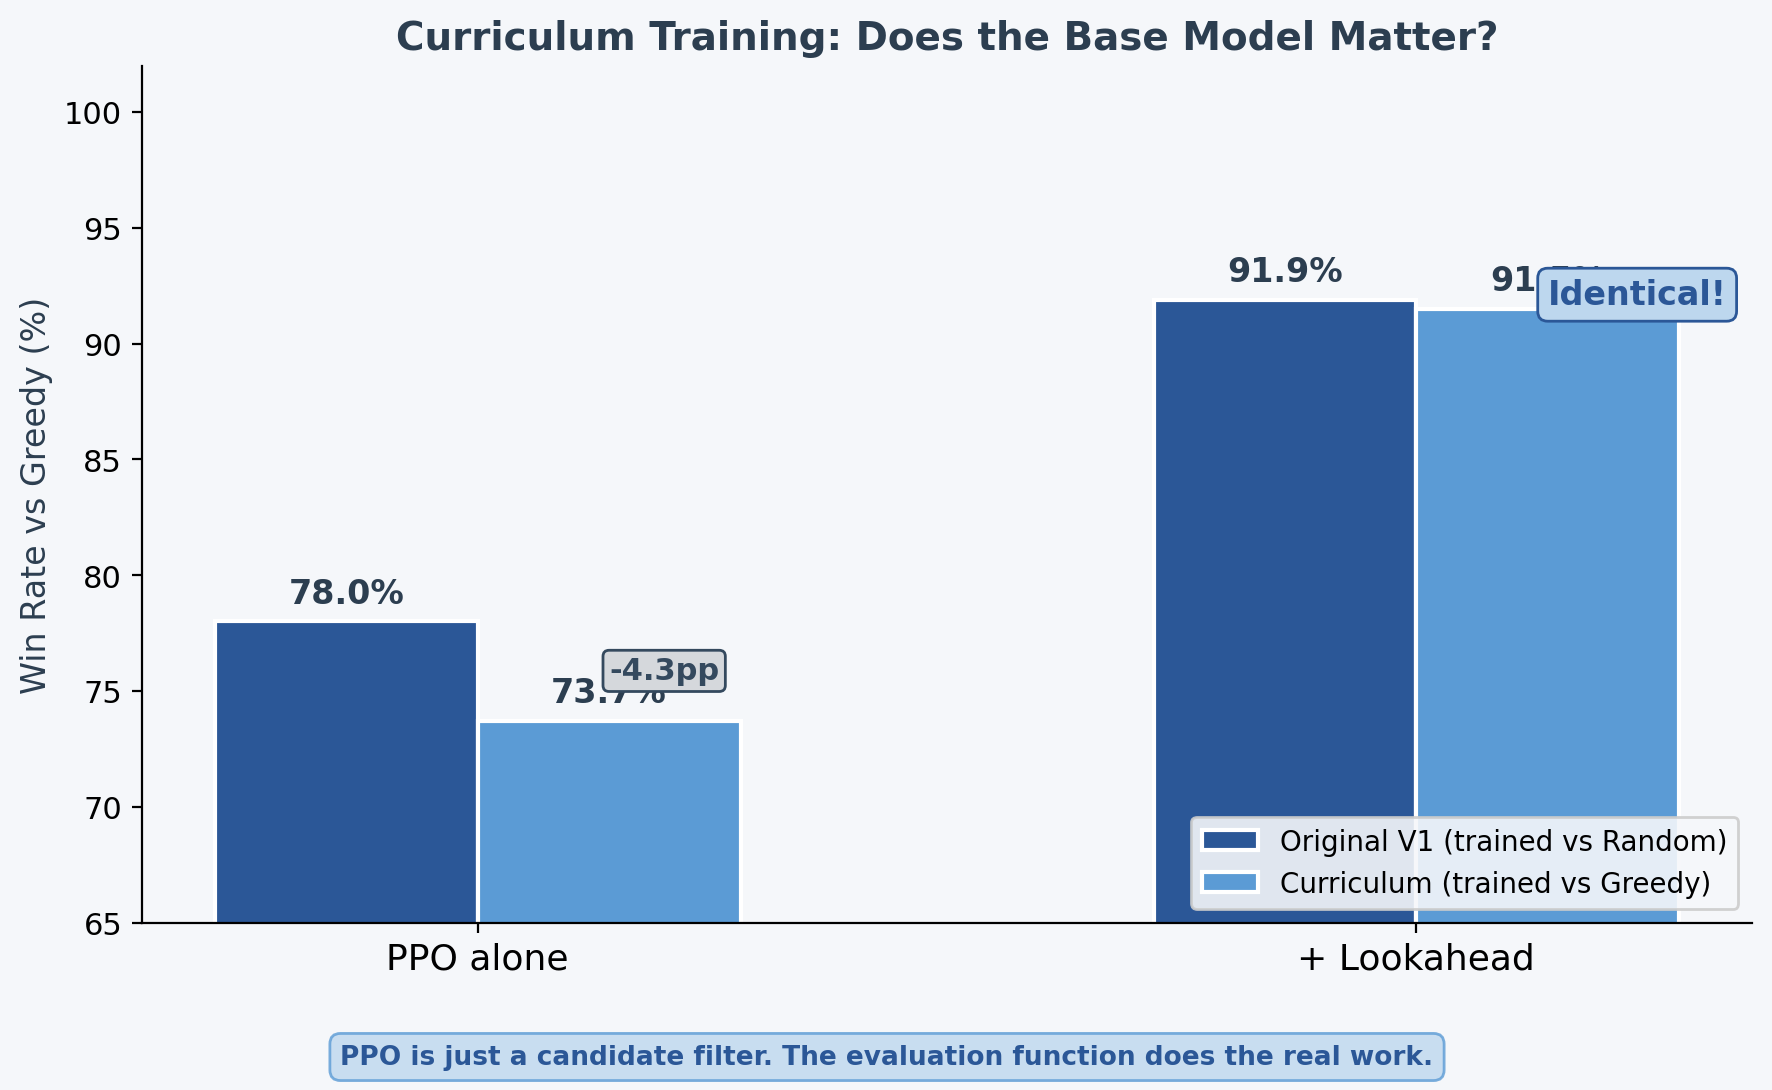
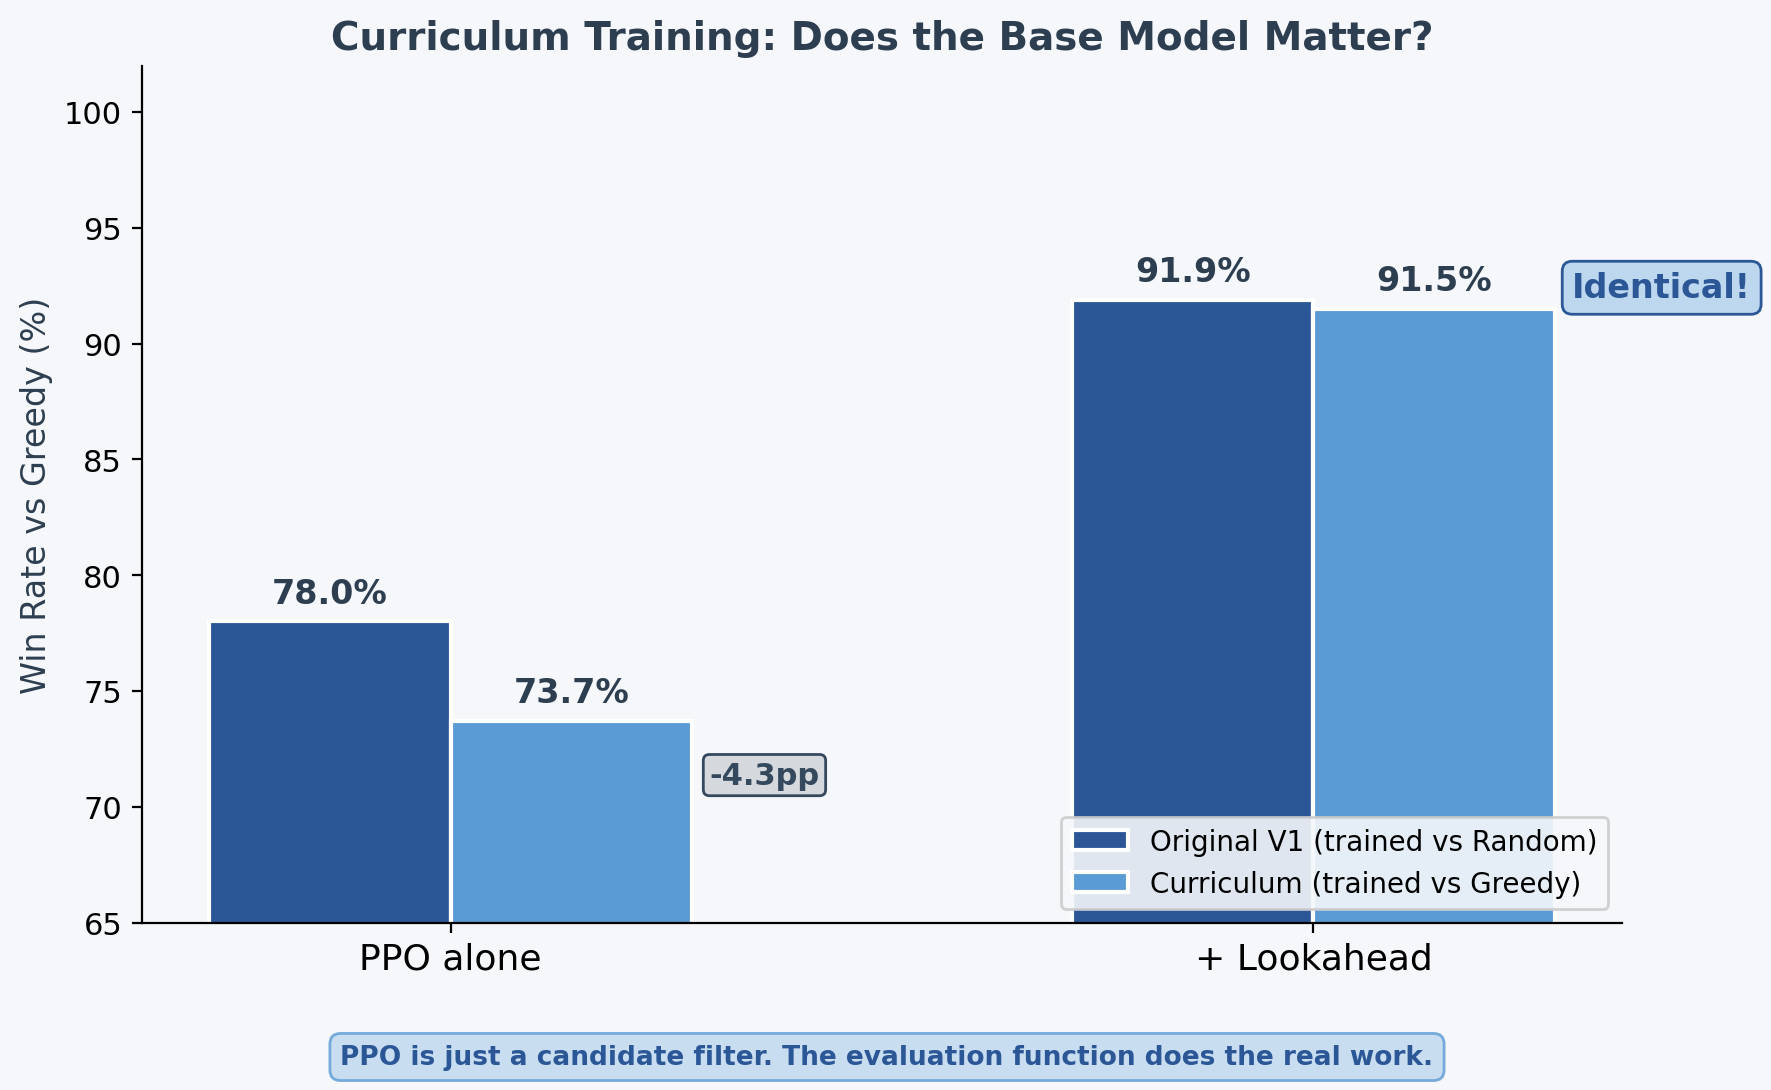
Fix curriculum fig: move labels to avoid overlap

diff --git a/project/scripts/generate_figures_v3.py b/project/scripts/generate_figures_v3.py
@@ -179,9 +179,9 @@ for bars in [bars1, bars2]:
         ax.text(bar.get_x() + bar.get_width()/2, bar.get_height() + 0.5,
                 f'{bar.get_height()}%', ha='center', va='bottom', fontweight='bold', fontsize=12, color=DARK)
 
-ax.annotate('Identical!', xy=(1.14, 91.7), fontsize=12, fontweight='bold', color=PRIMARY,
+ax.annotate('Identical!', xy=(1.3, 92), fontsize=12, fontweight='bold', color=PRIMARY,
             bbox=dict(boxstyle='round,pad=0.3', facecolor=LIGHT_BLUE, edgecolor=PRIMARY))
-ax.annotate('-4.3pp', xy=(0.14, 75.5), fontsize=11, fontweight='bold', color=CHARCOAL,
+ax.annotate('-4.3pp', xy=(0.3, 71), fontsize=11, fontweight='bold', color=CHARCOAL,
             bbox=dict(boxstyle='round,pad=0.2', facecolor=LIGHT_GRAY, edgecolor=CHARCOAL))
 
 bottom_box(fig, 'PPO is just a candidate filter. The evaluation function does the real work.')
